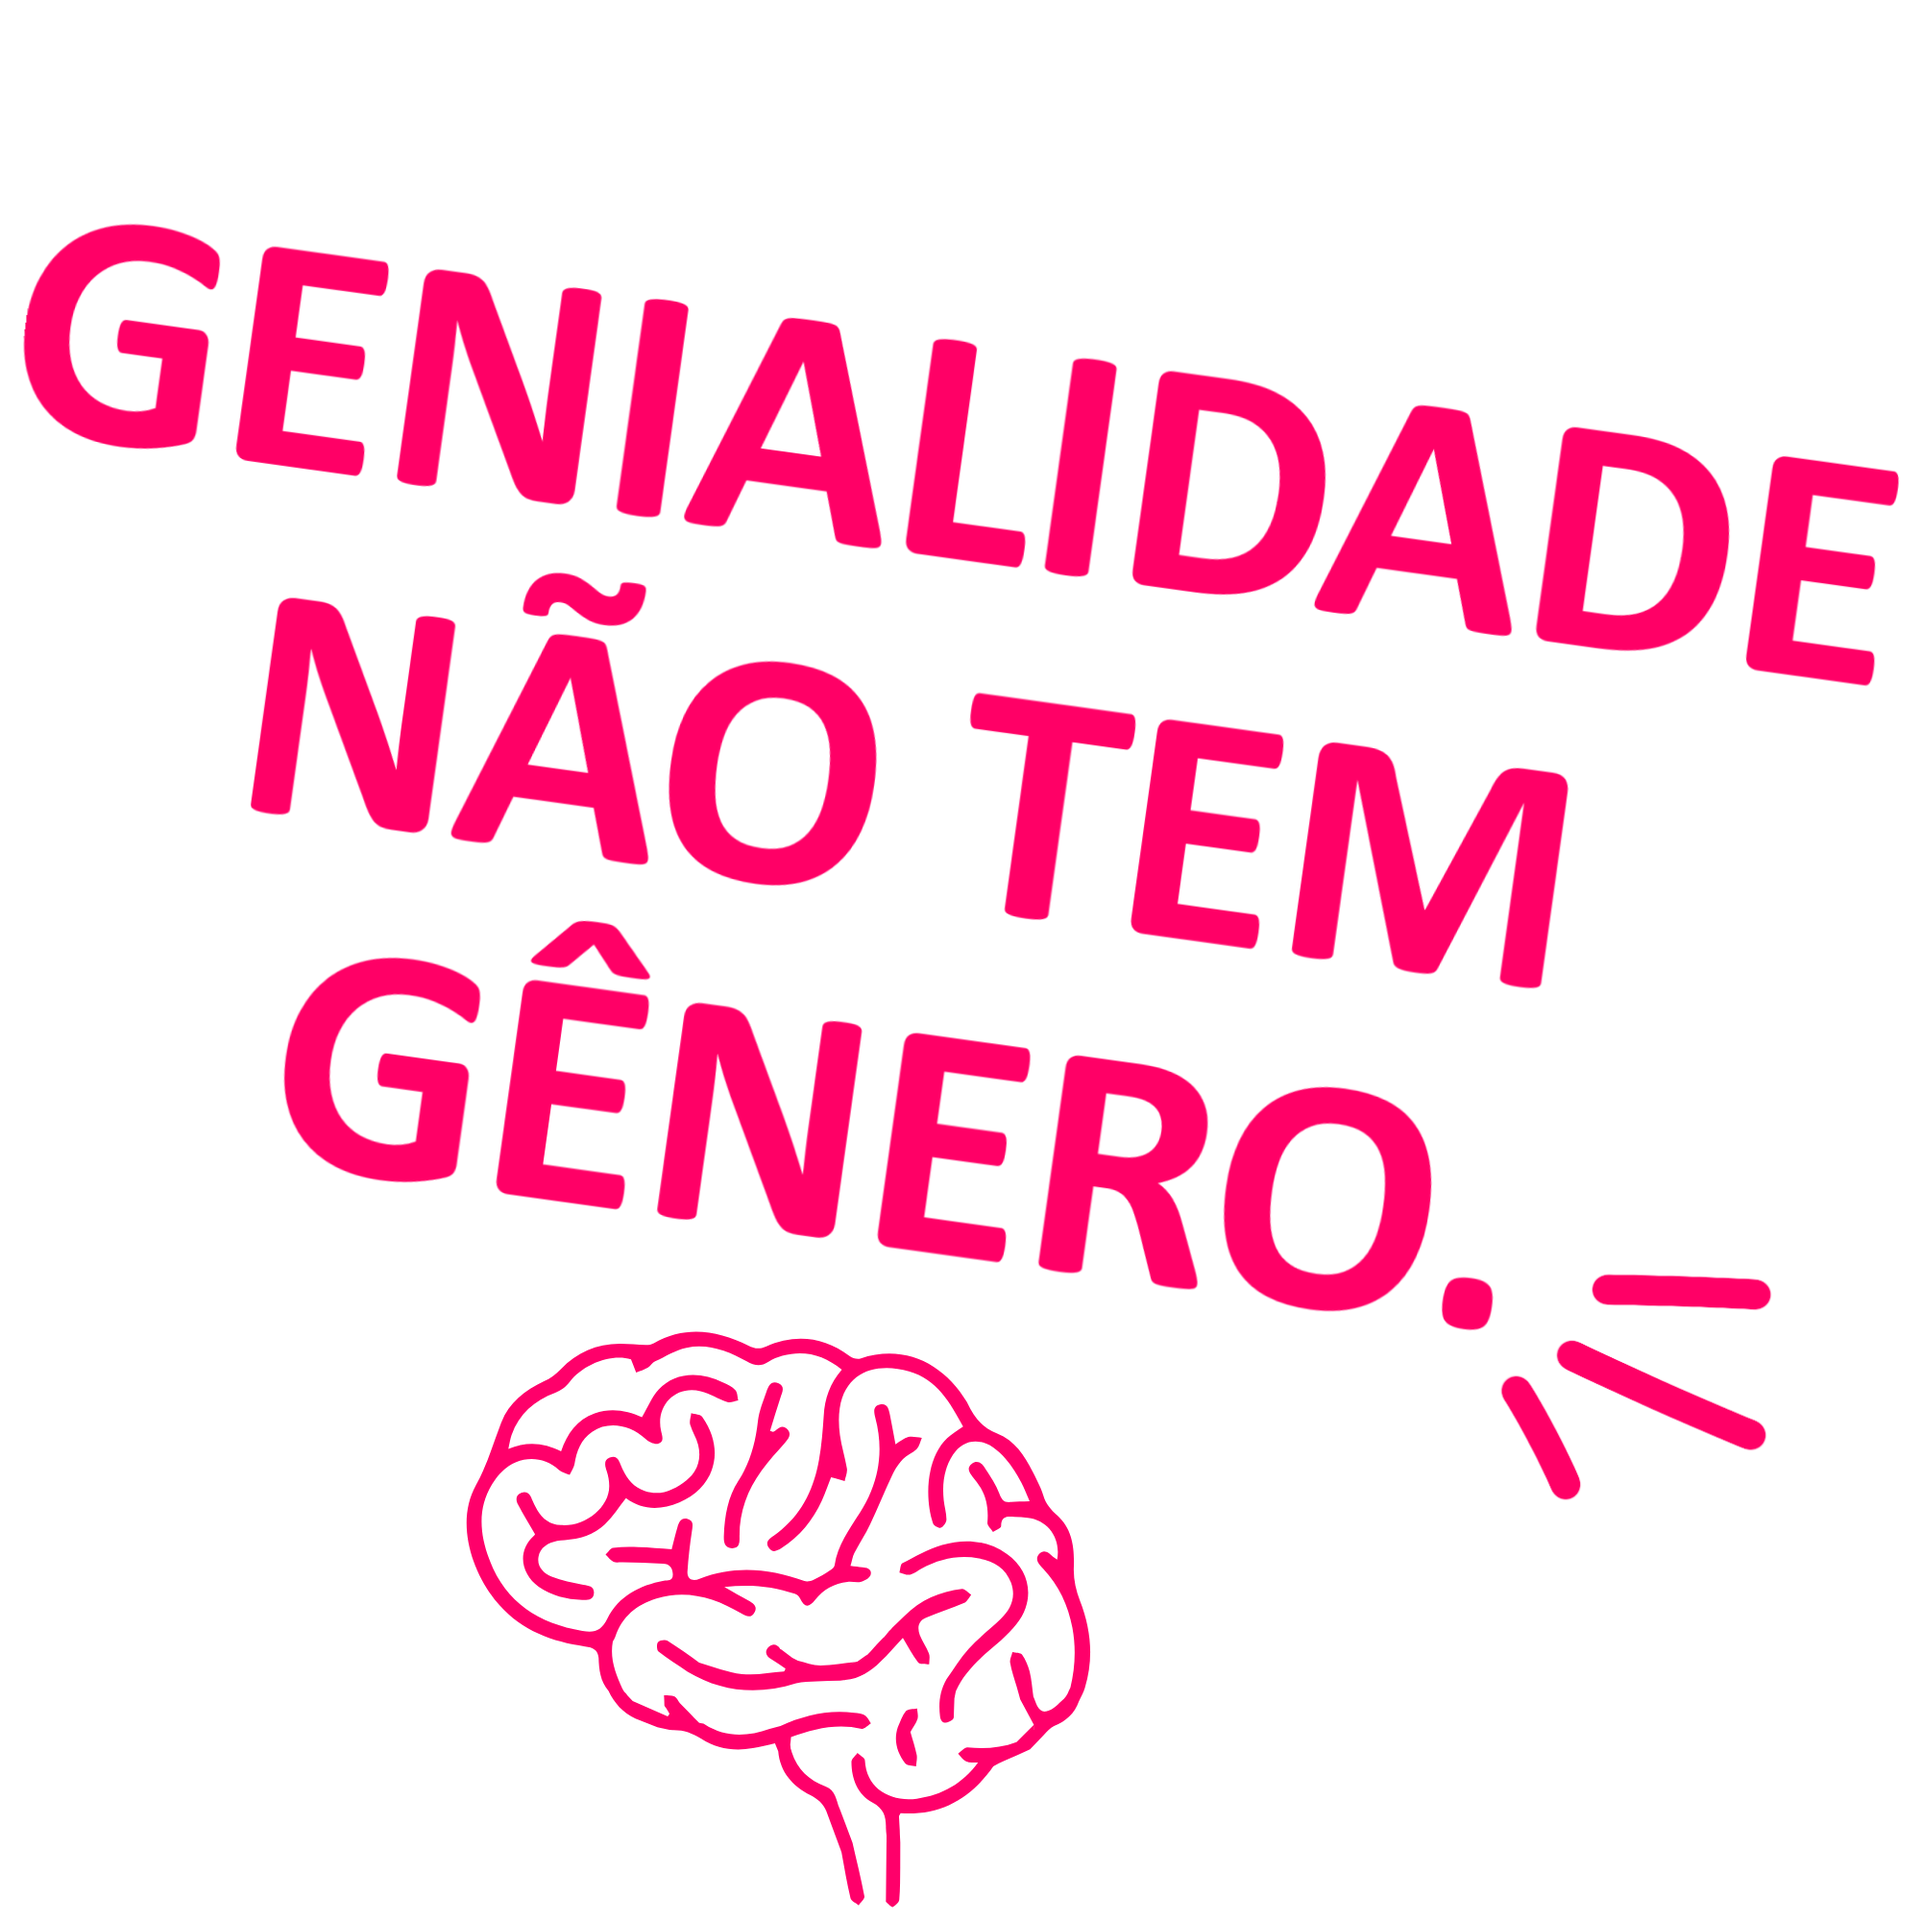
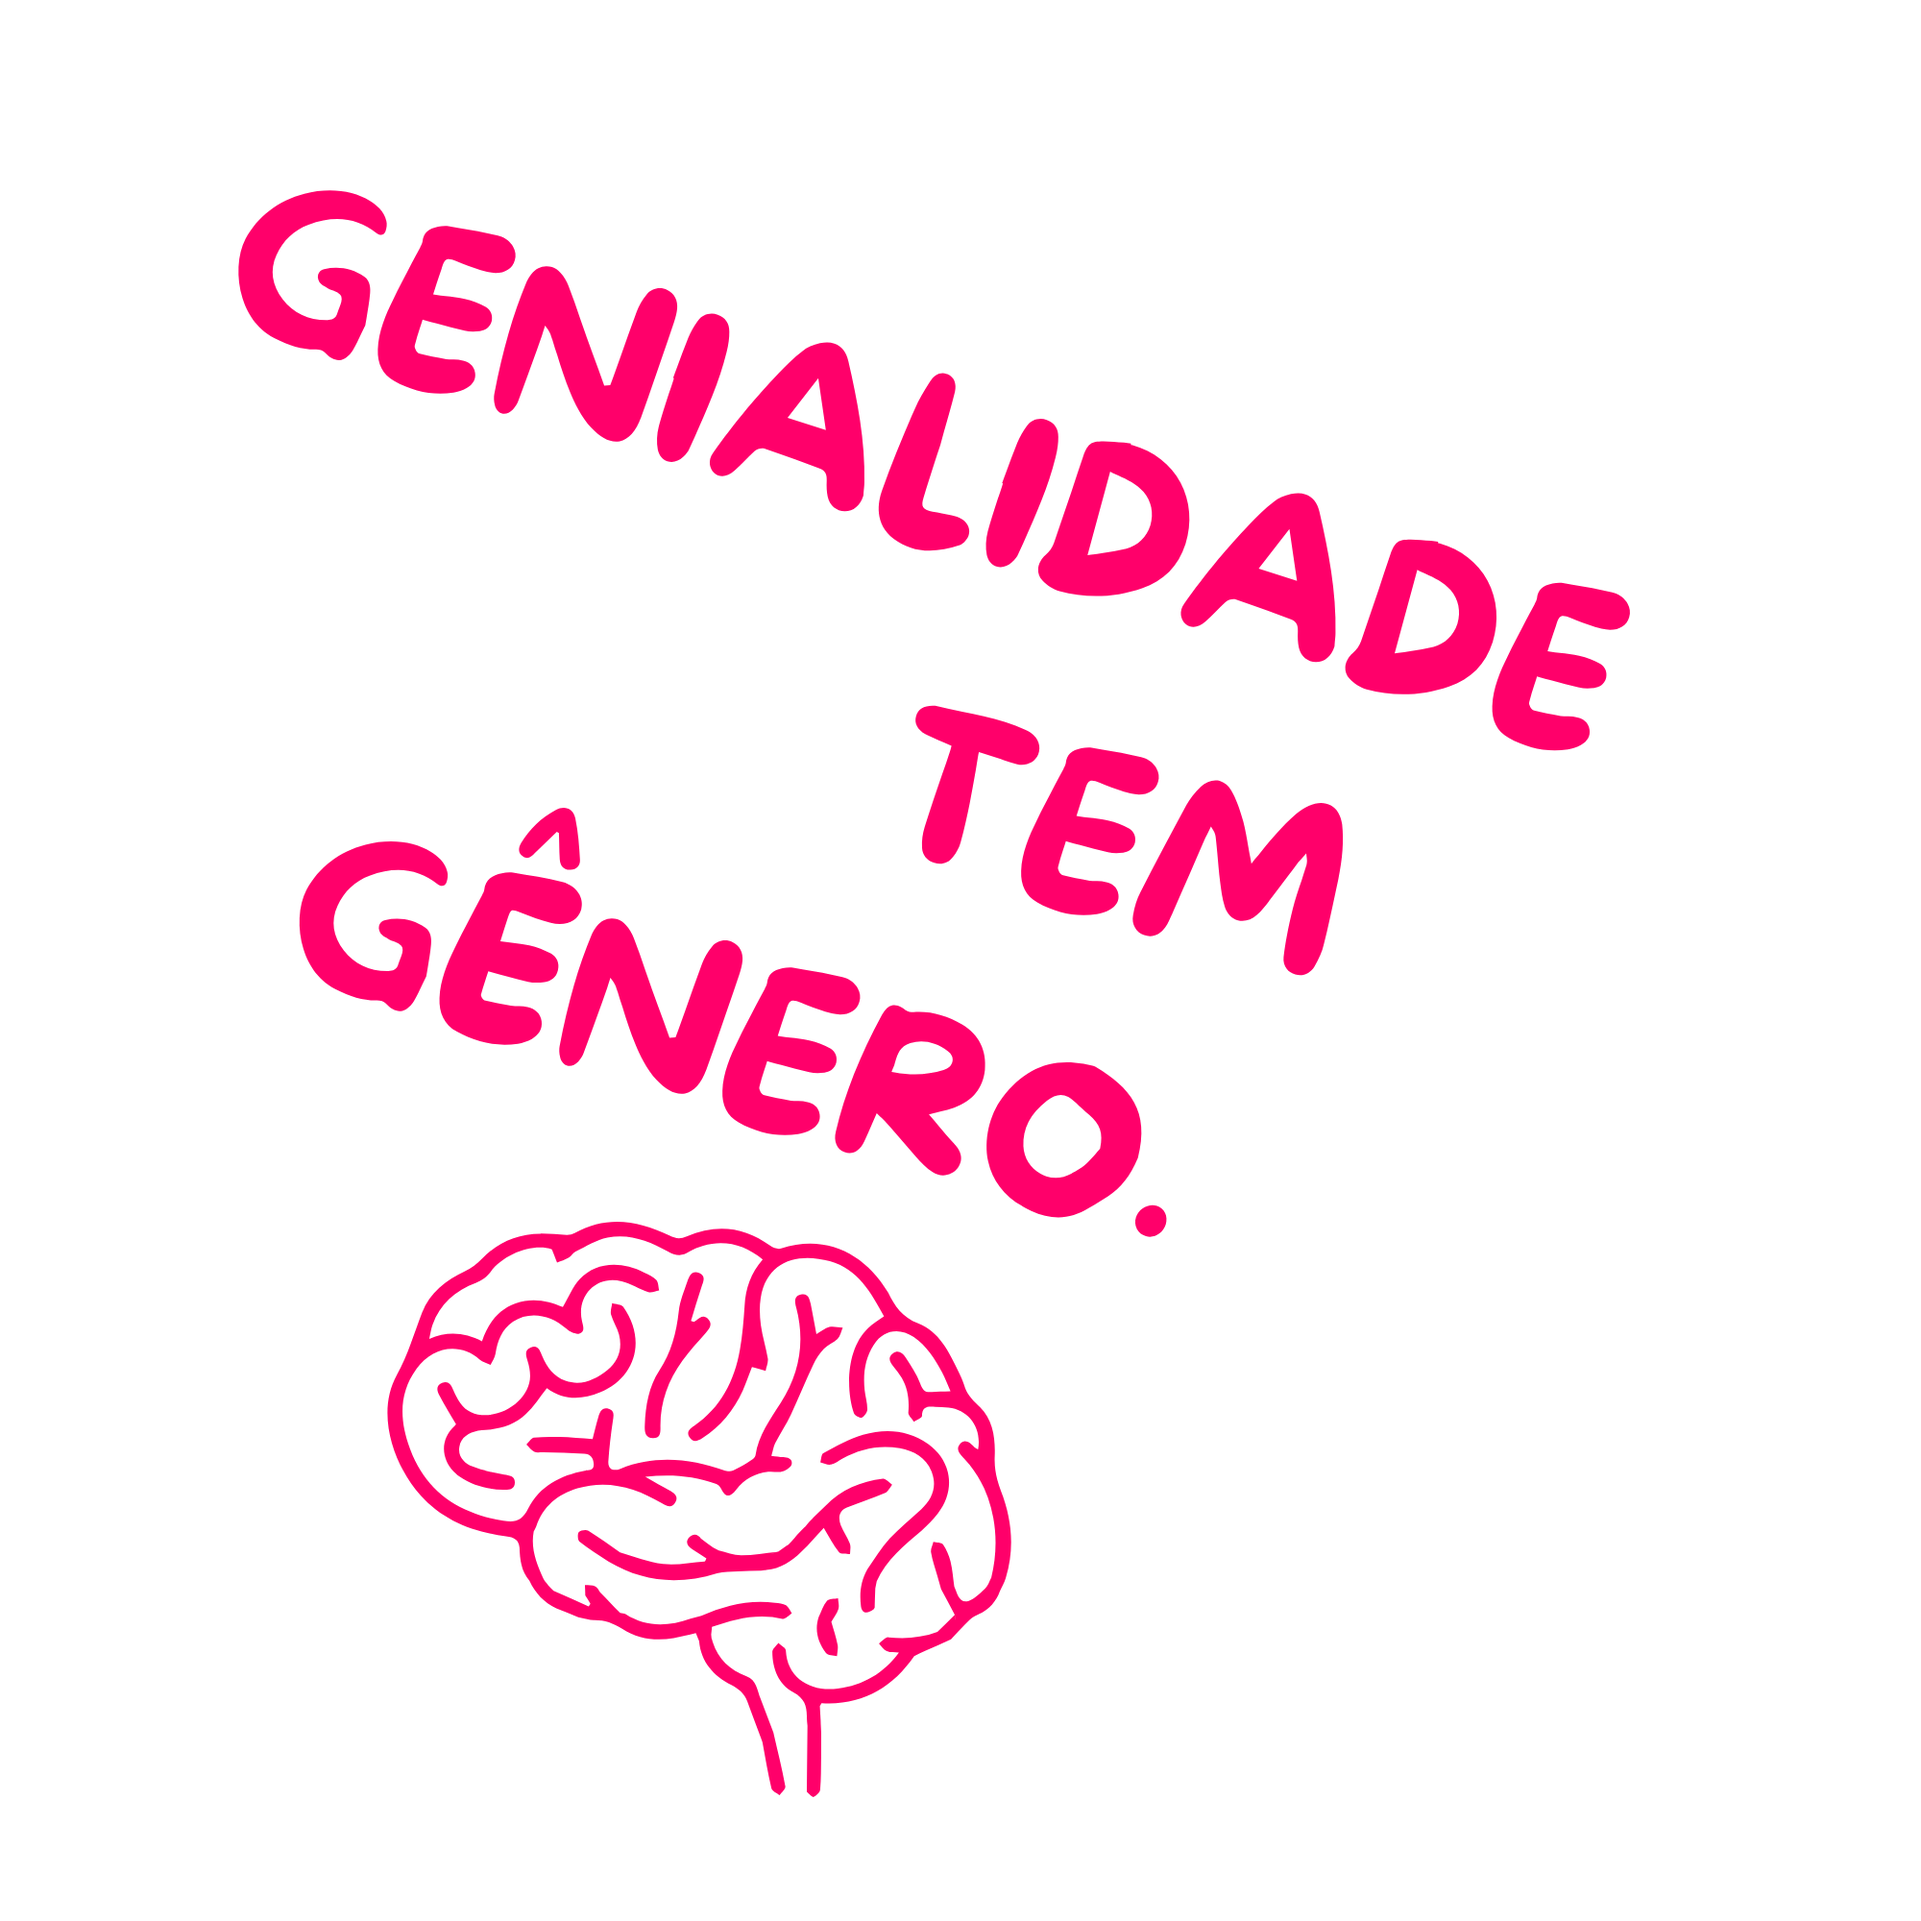
textinhos + redimensionamento arrumados

Changed region(s): [[0.0, 0.093, 0.992, 0.992], [0.775, 0.651, 0.93, 0.775]]

diff --git a/style.css b/style.css
@@ -22,33 +22,36 @@ header {
     border-bottom: 2px solid #FF006A;
     justify-content: space-between;
     align-items: center;
+    padding: 10px 20px;
+    flex-wrap: wrap
 }
 
 .icones > a > img{
-    width: 200px;
+    width: 4vw;
     height: auto;
-    margin-right: 30px;
+   
 }
 
 .logo > img {
-   width: 170px;
-   padding: 20px;
-   margin-left: 30px;
+   width: 4vw;
     height: auto; 
 }
 
 .botoesnav {
     display: flex;
-    font-size: 60px;
-    gap: 100px;
+    font-size: 1.5vw;
+    gap: 30px;
     list-style: none;
+    padding: 0;
+    margin: 0;
 }
 
 .botoesnav > li > a {
     color: white;
     text-decoration: none;
     font-family: Conforta ;
-    padding: 50px;
+    padding: 10px;
+
 }
 
 .botoesnav > li> a:hover{
@@ -61,59 +64,92 @@ header {
 
 
 
-section.banner > div#Textopequenodobanner > h3 {
-    position: absolute;
-    top: 350px;
-    width: 300px;
-    text-align: center;
-    color: #FF006A;
-    margin: 0;
-    font-family: Creato;
-    letter-spacing: 5px;
-}
 
-section.banner > div#Textopequenodobanner > h3:first-child {
-    left: 10vw;
-    transform: rotate(8deg);
-    font-size: clamp(1.6vw, 5vw, 1vw);
-}
 
-section.banner > div#Textopequenodobanner > h3:last-child {
-    right: 5vw;
-    transform: rotate(-8deg);
-    font-size: clamp(1.3vw, 5vw, 1vw);
-}
+
 
 section.banner {
-    position: relative; 
     display: flex;
     color: white;
     font-family: Conforta;
     justify-content: center;
     flex-direction: column;
     align-items: center;
-
+    position: relative;
+    text-align: center;
+   
 }
 
 section.banner > h2 {
-    font-size: 135px;
-    margin: 30px ;
+    font-size: 3.3vw;
+    margin: 10px ;
+    font-family: Lemon fina;
 }
 
 section.banner > h3 {
-    font-size: 55px;
-    margin: 30px;
+    font-size: 1.3vw;
+    color: #FF006A;
+    margin: 1px;
 }
 
 section > img#arqelaslogo {
     width: 50%;
     height: auto;
-    padding-top: 80px;
+    padding-top: 40px;
 }
 
 section > img#Mulheres {
-    width: 85%;
+    width: 80%;
      height: auto;
-     margin: 10px;
+     margin: 20px 10px 10px 10px;
 
+}
+
+section.Mulheres {
+    display: flex;
+    color: #FF006A;
+    justify-content: space-around;
+    align-items: center;
+    margin-left: 12%;
+    margin-right: 10%;
+    font-weight: bold;
+    text-align: center;
+}
+
+section.Mulheres > div > h3 {
+    color: whitesmoke;
+    display: inline-block; 
+    border-bottom: 2px solid #FF006A; 
+    padding-bottom: 3px; 
+    margin-bottom: 5px; 
+    font-size: 0.9vw;
+    margin-top: 0px;
+    font-family: Conforta;
+   
+}
+
+section.Mulheres > div > h2 {
+    margin: 0px;
+    font-size: 1.3vw;
+    font-family: Lemon fina;
+
+}
+
+#Esquerda {
+    position: absolute;
+    top: 40%; 
+    left: 1%; 
+    transform: translateY(-50%); 
+    width: 20vw; 
+    height: auto;
+}
+
+
+#Direita {
+    position: absolute;
+    top: 35%; 
+    right: 4%; 
+    transform: translateY(-50%); 
+    width: 18vw; 
+    height: auto;
 }

diff --git a/index.html b/index.html
@@ -32,35 +32,38 @@
     <section class="banner">
         <img id="arqelaslogo" src="Midias/LogoHorizontalTotalSemIcone.jpeg" alt="Arquivo E.L.A.S.">
         <h2>- MTEC 2026 -</h2>
-        <div id="Textopequenodobanner">
-           <h3>CIÊNCIA TAMBÉM É COISA DE MULHER!</h3>
-           <h3>GENIALIDADE NÃO TEM GÊNERO.</h3>    
+        <h3>Mulheres na Ciência</h3>
+        <div>
+          <img id="Esquerda" src="Midias/Ciencia.png" alt="Ciência também é coisa de mulher!">
+          <img id="Direita" src="Midias/Genialidade.png" alt="Genialidade não tem gênero.">
         </div>
 
-        <img id="Mulheres" src="Midias/MulheresDetalhes.PNG" alt="Mulheres">
-        <h3>Mulheres na Ciência</h3>
+        <img id="Mulheres" src="Midias/MulheresOFC.PNG" alt="Mulheres">
+    
     </section>
 
     <section class="Mulheres">
         <div>
-            <img src="" alt="">
-            <h2>Nome1</h2>
+            <h2>CHIEN-SHIUNG WU</h2>
+            <h3>Física</h3>
         </div>
         <div>
-            <img src="" alt="">
-            <h2>Nome2</h2>
+            <h2>GERTRUDE B. ELION</h2>
+            <h3>Bioquímica</h3>
         </div>
         <div>
-            <img src="" alt="">
-            <h2>Nome3</h2>
+          
+            <h2>MARIE CURIE</h2>
+            <h3>Física e Química</h3>
         </div>
         <div>
-            <img src="" alt="">
-            <h2>Nome4</h2>
+           
+            <h2>ROSALIND FRANKLIN</h2>
+            <h3>Química</h3>
         </div>
         <div>
-            <img src="" alt="">
-            <h2>Nome5</h2>
+            <h2>JANE COOKE WRIGHT</h2>
+            <h3>Oncología</h3>
         </div>
     </section>
     <h1>Prepare-se para voltar no tempo. A investigação começa agora.</h1>
